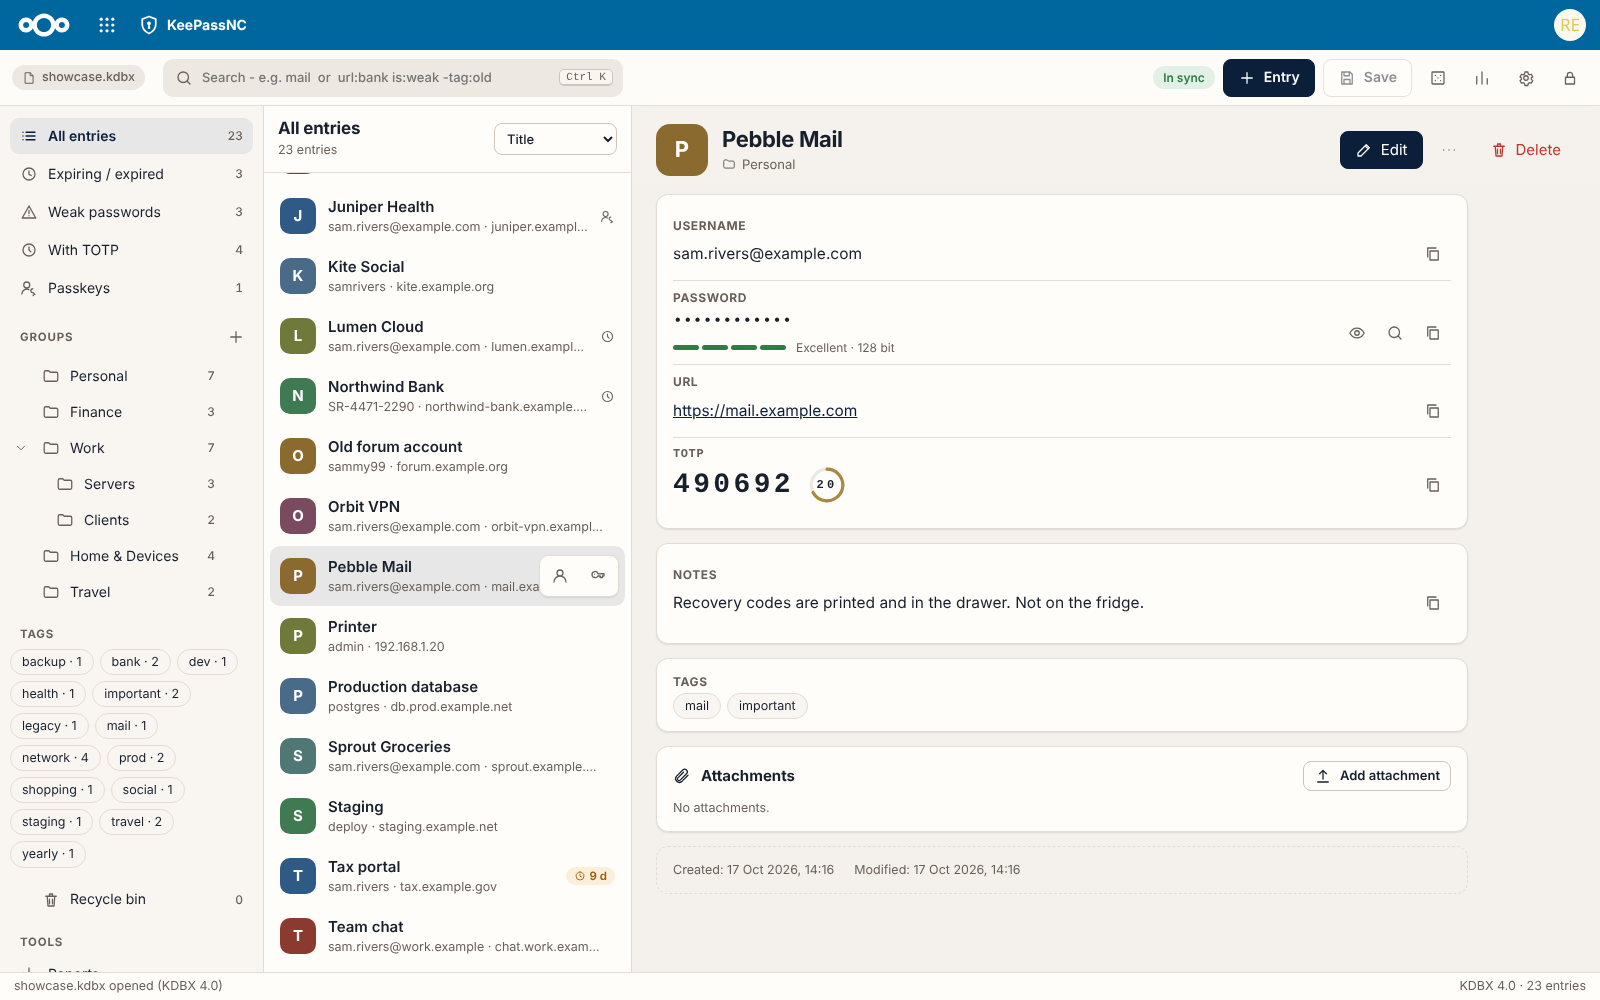
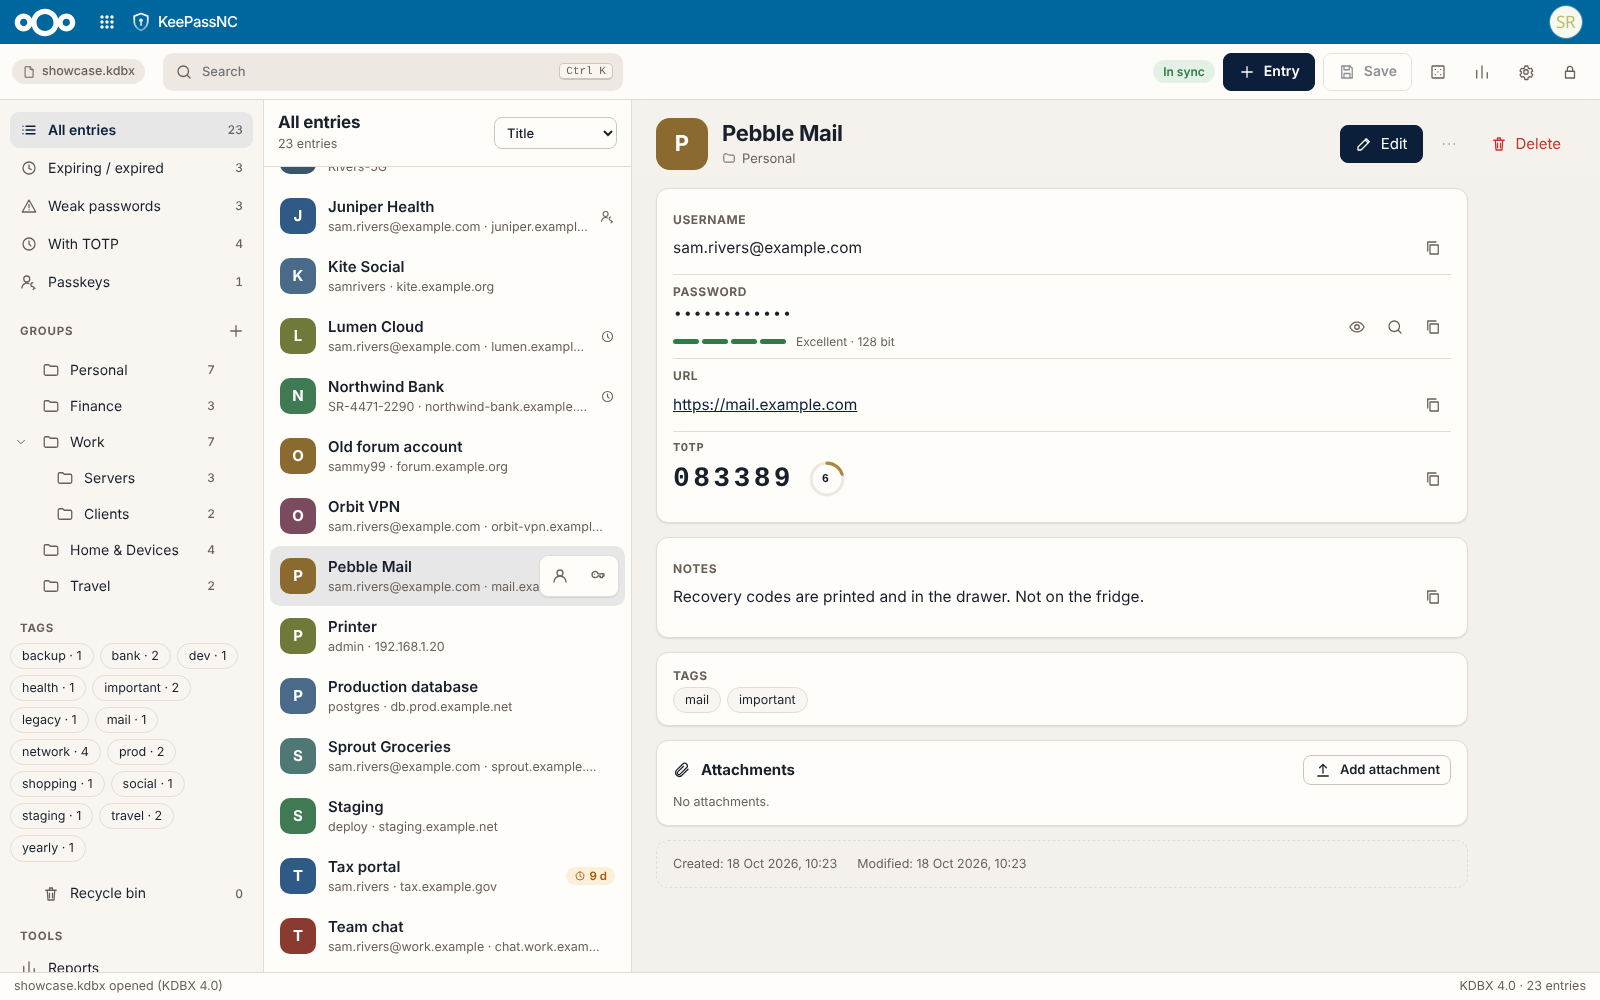
Release 0.10.0 (#53)
The Nextcloud 35 header and a simpler, clearer password generator. README screenshots retaken against Nextcloud 35.0.2.

diff --git a/nextcloud-app/keepassnc/CHANGELOG.md b/nextcloud-app/keepassnc/CHANGELOG.md
@@ -2,15 +2,10 @@
 
 Format based on [Keep a Changelog](https://keepachangelog.com/en/1.1.0/).
 
-## [Unreleased]
+## [0.10.0] - 2026-10-18
 ### Changed
 - The header now looks like the one in Nextcloud 35 instead of its older sibling from 34: it's a bit slimmer (44 px), uses Nextcloud's font and the very same 9-dot icon. The app menu got pale round icons in your instance color that grow a little when you point at them, one shared highlight behind the 9-dot button and the app name, no arrow, and it opens when you hover there for a moment. Below the apps sits Nextcloud 35's new row of quick actions, like "Text document" from Office. Actions that need Nextcloud's own JavaScript stay out, since that doesn't run on this page.
-- The password generator opens with passphrases now, since they are the easiest strong passwords to live with. Passwords come second, and "Pronounceable" became "Simple".
-- Passphrases can now use German words: the [dys2p de-7776](https://github.com/dys2p/wordlists-de) list (7776 words, no umlauts, CC0), so each word is worth the same 12.9 bits as with the English EFF list. It starts out in the app's language.
-- "Simple" is made for TVs, consoles and anything else you have to type on with a remote: letters, two digits and a separator, nothing else. It always looks like `Fulhattmon 37 dazznellfirr`, three syllables, the digits, three syllables, and the slider just tacks on more syllables (or, if you really must, takes it down to `Fulhattmon 37`). Syllables come as `bal` (60 %), `ball` (25 %) or `ba` (15 %), so it reads a bit more like words, and they always split up only one way. No triple letters and no `hh` where two syllables meet. Each block of three syllables is worth about 32 bits, the digits another 6, and that's the exact entropy of what actually comes out, not a hopeful count. It starts with a capital letter, because so many password rules want one; if Shift on your remote is a pain, untick it.
-- Passphrases and "Simple" share one separator menu: space (the new default), dot, hyphen, comma, underscore, `@` and `!`. Space, dot, comma and `@` are on the first page of the Fire TV keyboard. Since the old hyphen default got saved every time the generator opened, a saved hyphen turns into a space once; pick it again and it stays. A separator you once typed in yourself and that isn't on the menu turns into a space, too.
-- Passphrases can get a digit stuck to one of their words, for sites that insist on a number.
-- The password tab sorts its symbols into two groups: "Symbols 1" (`! ? . , : ; - _ + = * " $ % & @`, on by default) are the ones phones and TVs offer without much hunting, "Symbols 2" (`' / \ | ( ) [ ] { } < > # ^ ~` and the backtick) are the rest. The six old groups get mapped over, so if you had symbols switched off, they stay off. Extended ASCII and custom or excluded characters live under "More options", which opens by itself when you use them.
+- The password generator got simpler and clearer. Passphrases come first and now speak German too, passwords sort their symbols into two easy groups instead of six, and "Pronounceable" became "Simple": made for typing on a TV remote, and still honest about its strength.
 
 ## [0.9.1] - 2026-10-17
 ### Changed
